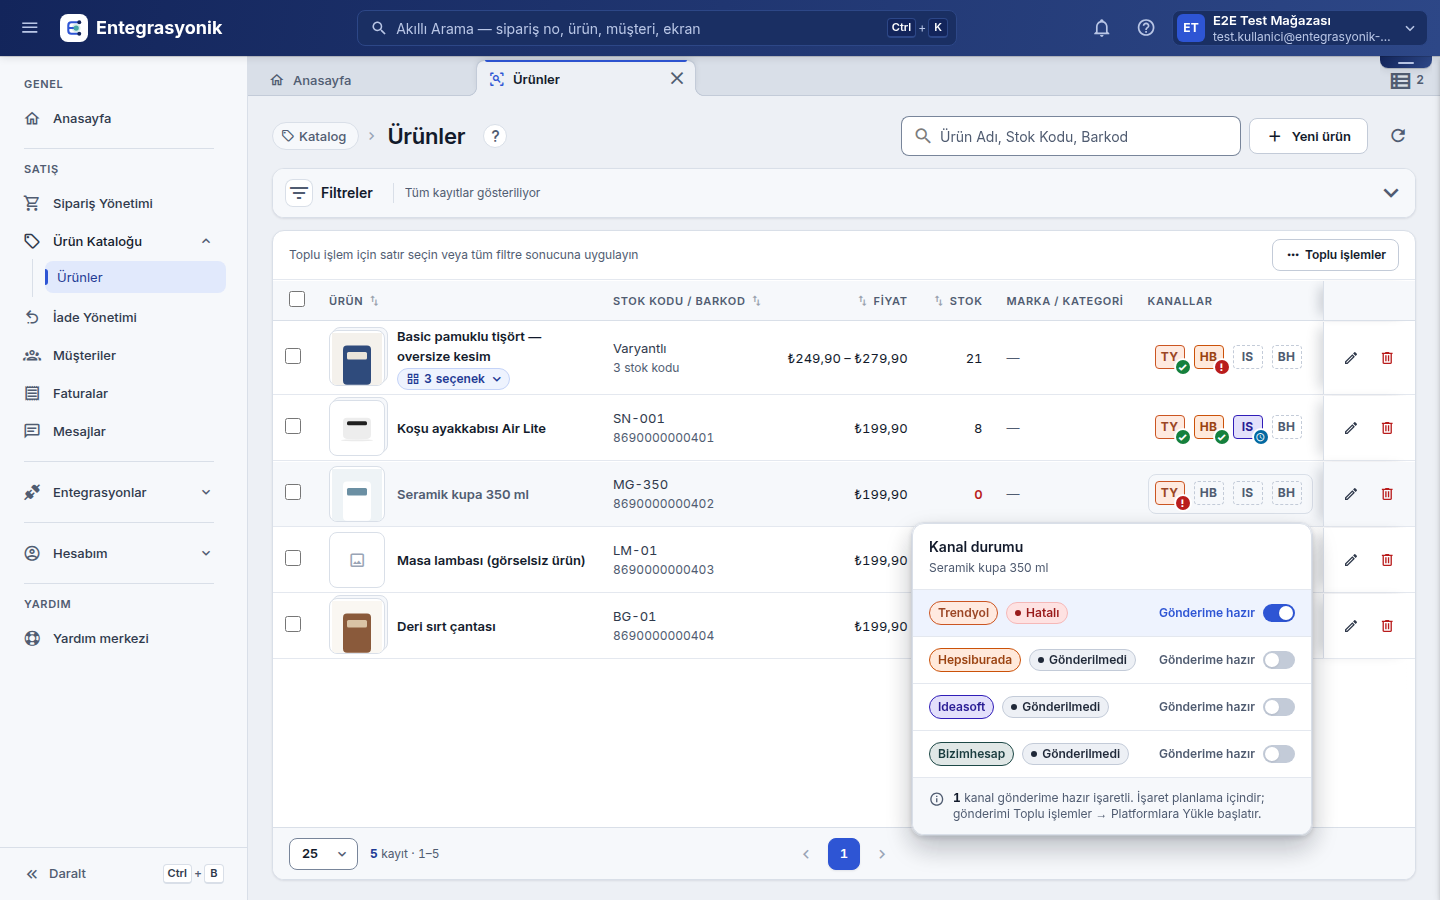
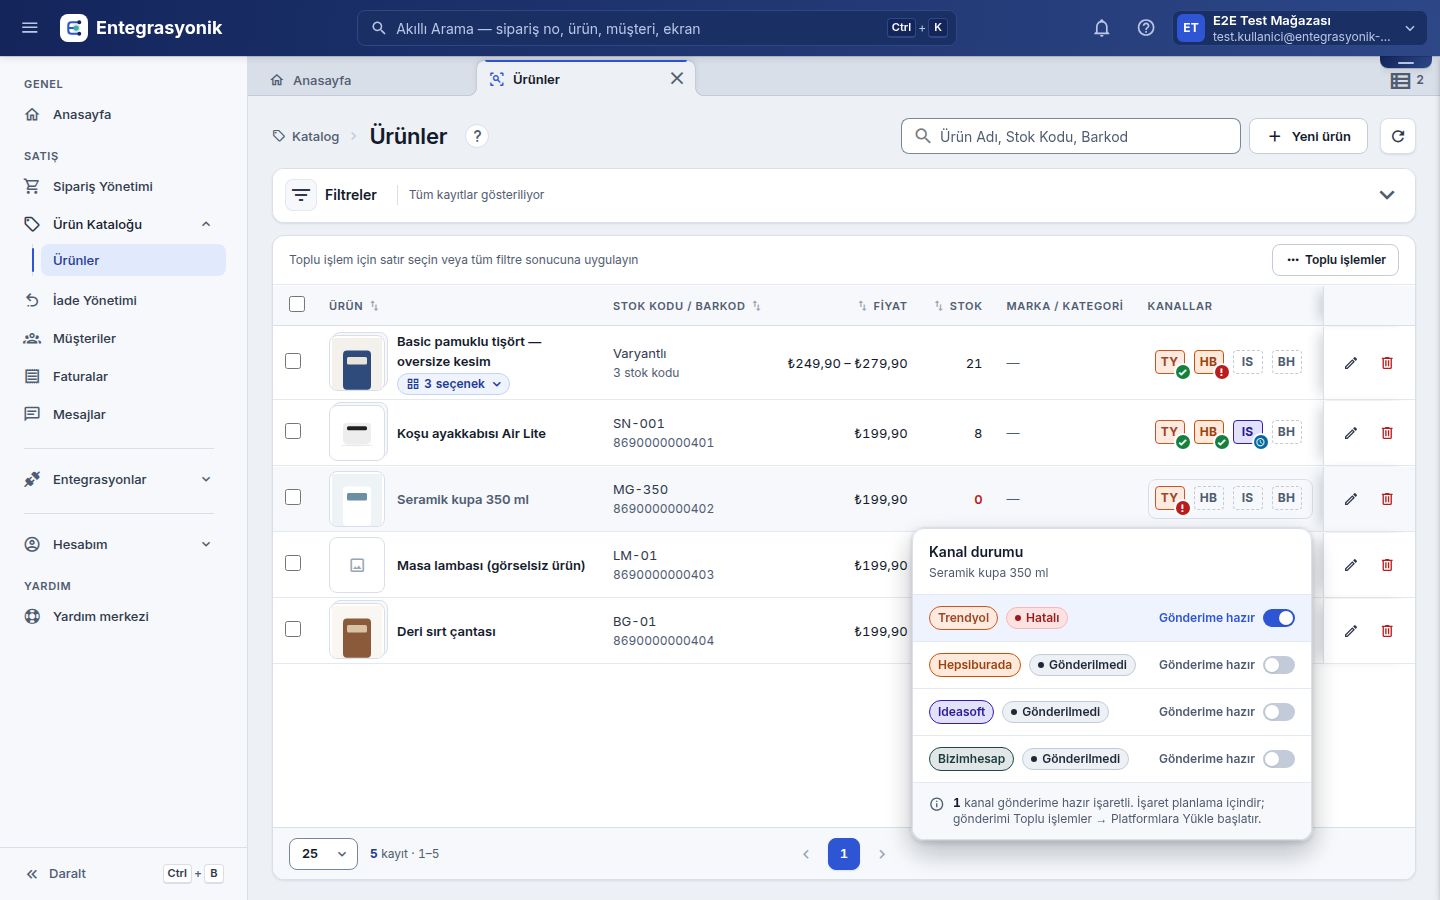
faz3-fe-r2b-cloud: birlesik halden sonra goruntuleri ve inceleme notu (kararlar, iterasyonlar, testler, acik konular)
Claude-Session: https://claude.ai/code/session_01LbLGXud9KAa6VwdDQG2ttZ

diff --git a/frontend/docs/fe-r2b-review/README.md b/frontend/docs/fe-r2b-review/README.md
@@ -1,0 +1,42 @@
+# fe-r2b — kanal rozeti (FR2-CHANNEL 11–14) + ürün listesi (FR2-PLIST 18–22)
+
+Dal: `cloud/fe-r2b` (taban `origin/main`, sonda `cloud/fe-r2a` birleştirildi). Görseller: `<ad>-<genişlik>-{once,sonra}.png`
+(1440 + 390; sahte SVG ürün fotoğrafları), üretici `e2e/specs/fe-r2b-review.spec.ts` (`FE_R2B_CAPTURE=<etiket>`). Playwright
+tabanı DEĞİLDİR; görsel onay yerelde (`*-win32.png`).
+
+## Kararlar
+
+| # | Karar | Nerede |
+|---|---|---|
+| K13 | Rozet = kenarlık marka renginin **koyusu**, iç zemin **açığı**, metin koyu marka tonu. Marka hex'i değişmez; tonlar yalnız oranla `color-mix`: zemin = marka %14 + yüzey, kenarlık = marka %78 + mürekkep, metin = marka %58 + mürekkep. **Açık tema oranları sitenin `--channel-badge-*` değerleriyle birebir** (cloud/site-s23). Koyu tema ayrı oran (18/70/45) — iki temada her kanal + nötr için AA birim testli (harf/zemin ≥ 4.5, kenarlık ≥ 3). | `packages/ui/src/tokens/palette.ts` `channelBadgeMix`, `render.ts` `renderChannelBadgeRules`, `tests/theme/channel-badge.test.ts` |
+| 12 | Kısa/uzun ad TEK kayıttan: `CHANNEL_NAMES` (uzun) + `CHANNEL_SHORT` (TY, HB, N11, PZ, IS, BH, SH, WC); `channelShort()` / `brandName()`. Rozet: `form="long"` ad, `form="short"` kısaltma (ad `title` + ekran okuyucu). | `packages/ui/src/tokens/channels.ts`, `EkChannelBadge.vue` |
+| 11 | Uygulamadaki tüm kanal rozetleri tek bileşene bağlandı: `EkChannelDot` (chip/filled → uzun rozet, yalnız nokta → kısa rozet; `plain` metin içi nokta kaldı), `EkPlatformMark` (monogram → kısa rozet), `PlatformImageComponent`, `IntegrationAvatarComponent`, varyant ayrıntı kartı. Şerit/aksan kullanımları (grid satır şeridi, entegrasyon rayı) rozet değildir, dokunulmadı. | — |
+| 13 | Kargo firmaları aynı rozet (`kind="carrier"`), kayıt `CARRIERS` (10 firma, serbest metin eşleme). "Kargoya ver" (`ManualShipmentComponent`) listesi `EkSelect kind="carrier"`; değerler eski serbest metinle aynı (backend değişmez). **Renkler ölçülmedi → nötr** (bkz. açık konular). | `channels.ts`, `ManualShipmentComponent.vue` |
+| 14 | `EkSelect`: kanal/kargo seçenekleri kısa rozet öncülü, seçili çip = uzun rozet; durum çipi `EkStatusChip` dili (subtle zemin + tonlu kenarlık + emphasis metin). Filtrelerdeki kanal/kargo/durum listeleri otomatik aynı standart. | `EkSelect.vue`, `selectOptions.ts` |
+| 18 | Thumbnail: xs 32 / sm 44 / md 56 / lg 64 (önce 28/40/44); `object-fit: contain` + beyaz yüzey (fotoğraf kırpılmaz, yatay/dikey ortalanır). | `ProductThumb.vue` |
+| 19 | Hover = TEK büyük görsel (280 px sabit çerçeve) + adet sayacı + "tıklayın: galeri"; tıklanamayan küçük resim şeridi kaldırıldı. Tıklama = salt-okunur galeri (←/→, Home/End, şerit, Esc, "Ürünü düzenle"). Görselsiz üründe tıklama düzenlemeyi açar. | `ProductGalleryDialog.vue` |
+| 20 | Varyant satırları aynı standart: büyük kare, görseli olan varyantta galeri. | `ProductVariantListComponent.vue` |
+| 21 | "Platform durumu" → **Kanallar**: kanal başına karo (kısa rozet + durum işareti) — yayında ✓ / hatalı ! / bekliyor ◷ / satışa kapalı ‖ / yok (kesik pasif rozet); öncelik hatalı > bekliyor > yayında > kapalı > yok, varyantlı üründe varyant dağılımı. Varyant satırı aynı karolar. Durum kuralı tek kaynak (`variantListModel.channelState`). | `channelStatus.ts` (+ test), `ChannelStatusTile.vue`, `ProductChannelStatus.vue` |
+| 22 | Yükleme seçimi: satırdaki gizli "logoya tıkla = hazır" yerine **Kanal durumu paneli**: kanal başına uzun rozet + durum çipi + dağılım + kısa neden + `role="switch"` "Gönderime hazır". Tablo: stok kodu + barkod tek iki satırlı sütunda (1440'ta yatay taşma bitti; barkoda göre sıralama kalktı, stok koduna göre sürer). | `ProductListView.vue` |
+
+## İterasyonlar
+
+1. Rozet + taşıma → vitrin kontrolü (tüm kanallar, kısa/uzun, boyutlar, kargo, seçim listeleri).
+2. Liste v1: kanal karoları dar sütunda alt alta sarıyordu → tek satır + sütun genişliği.
+3. Liste v2: tablo 1440'ta yataya taşıyor, karolar sabit eylem sütununun altında → stok kodu/barkod birleşti, ürün sütunu 320 px.
+4. Panel v1: Vuetify anahtarı ağır, satırlar uzun; galeri görseli sahneden taşıyor, şerit görünmüyordu → kompakt satır + kendi anahtarı; mutlak yerleşimli `contain` sahne.
+5. **Doğruluk düzeltmesi:** `platformUploads.<kod>.isReady` backend'de yalnız YAZILIYOR, hiçbir akış okumuyor → "bir sonraki aktarımda gönderilir" vaadi kaldırıldı; metin "gönderime hazır (planlama işareti) — gönderimi Toplu işlemler → Platformlara Yükle başlatır".
+6. fe-r2a birleştirildi (çakışma yok), tüm kontroller ve görüntüler birleşik hâlde yeniden alındı.
+
+## Testler (birleşik hâl)
+
+- vitest: 69 dosya / 1413 test yeşil (yeni: `tests/theme/channel-badge.test.ts`, `tests/fe-r2b-channel-status.test.ts`; b1 thumbnail ve kanal tek-kaynak testleri FR2'ye göre güncellendi, ratchet sayıları yalnız AZALDI).
+- `@entegrasyonik/ui` 22/22, backoffice 30/30; vue-tsc 0 hata (mandal); stil/desen/console mandalları ve sözleşme yolları OK; `npm run build` + `build:backoffice` OK.
+- Playwright (chromium-desktop): `fe-r2b-channel-badge.spec.ts` 3/3 (2 tekrar kararlı) — **axe AA 0 ihlal** vitrin rozetleri (renk kontrastı dahil), kanal hücresi + panel, galeri; anahtarın kayıt gövdesi doğrulanır. `product-variant-list.spec.ts` güncel DOM'a uyarlandı (tabanda da kırıktı), axe 0 artık zorunlu.
+- Tabanla karşılaştırma: `products/orders/claims/design-system/product-batch-actions` spec'lerindeki kırmızılar `origin/main`'de de aynı (eski seçiciler / Windows tabanı) — bu dalda yeni kırılma yok.
+
+## Açık konular
+
+- **Kargo marka renkleri ölçülmeli (yerel):** bulutta dış ağ kapalı; K13 "tahmini renk yok" → firmalar nötr rozet. Ölçülen hex `CHANNEL_BRAND_COLORS.md` + `palette.ts` `channelPalette`'e firma koduyla (`yurtici`, `aras`, `mng`, `surat`, `ptt`, `trendyolexpress`, `hepsijet`, `ups`, `kolaygelsin`, `sendeo`) eklenince rozet kendiliğinden renklenir; `channel-badge.test.ts` AA'yı otomatik doğrular.
+- **Backend:** `isReady` bayrağının bir tüketicisi yok (BACKLOG adayı: aktarım hedefi olarak kullanılsın ya da UI'dan kalksın).
+- Site `ChannelMono` baş harf gösteriyor; kısa form kaydı (`CHANNEL_SHORT`) siteye de kopyalanırsa iki yüzeyde monogram aynı olur.
